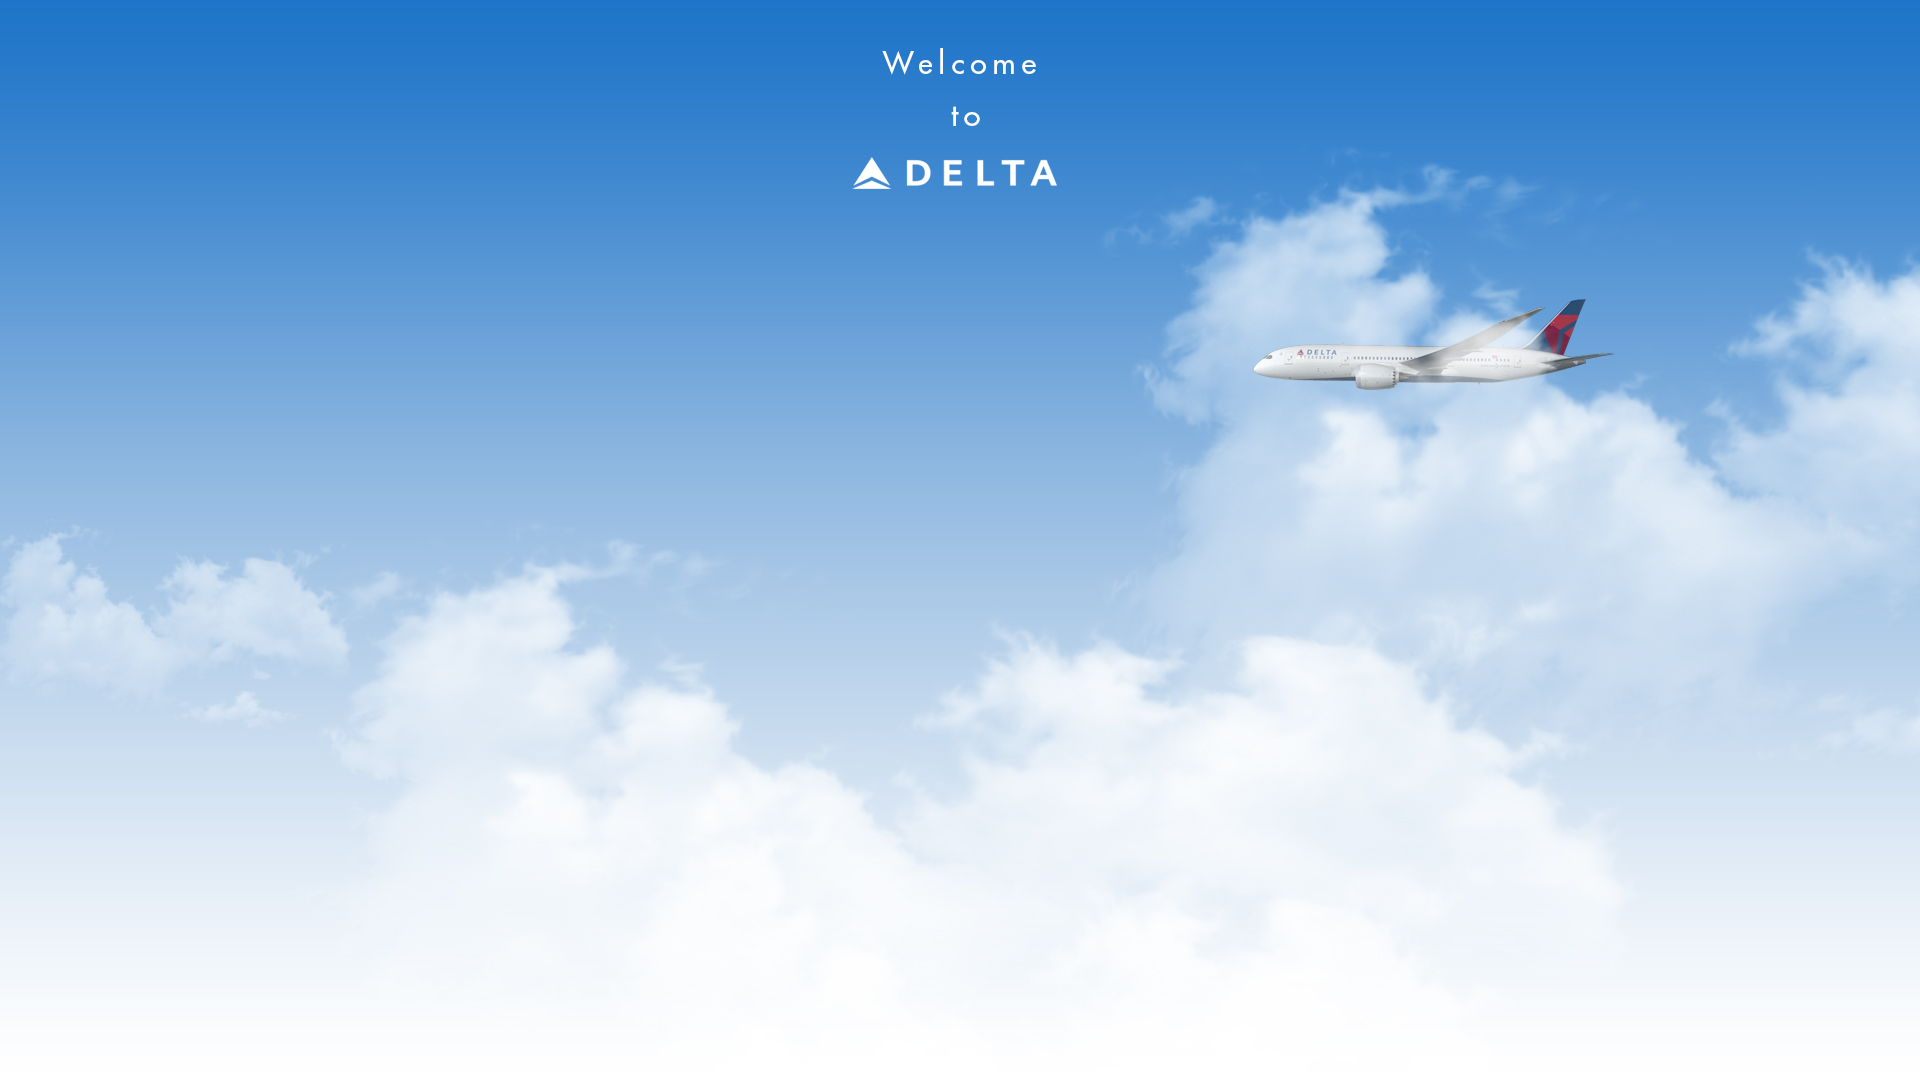
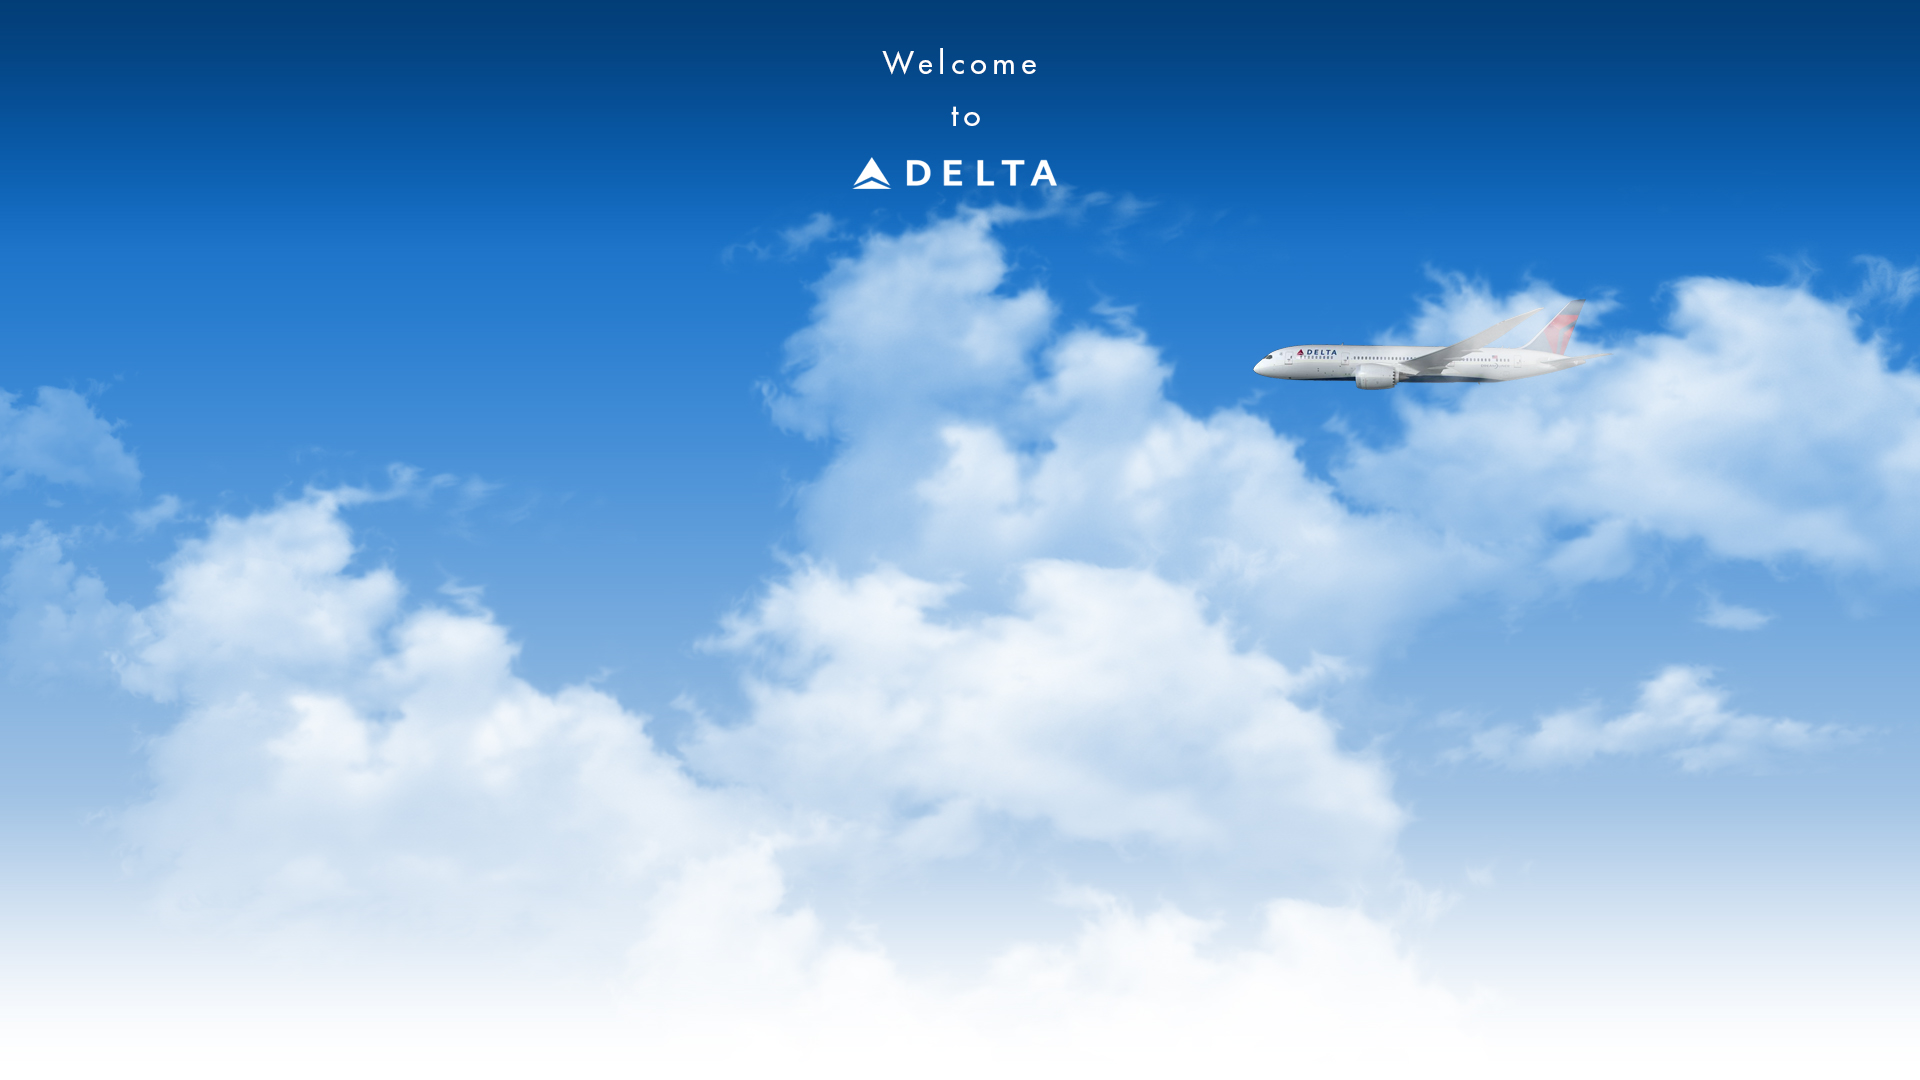
cloud marquee

diff --git a/login_style.css b/login_style.css
@@ -14,6 +14,15 @@ body {
 	margin-left: -30px;
 }
 
+#cloud_animation1 {
+    float: right;
+    clear: both;
+    position: relative;
+    z-index: -1;
+}
+
+
+
 #login_form {
 	background-color:rgba(255, 255, 255, 0.7);
 	margin: auto;
@@ -22,6 +31,7 @@ body {
 	border-radius: 5px;
 	padding: 20px;
 	font-family: sans-serif;
+    z-index: 1;
 }
 
 #custom_word {

diff --git a/login.php b/login.php
@@ -11,7 +11,7 @@
 <body>
 
 	<img id = "logo" src="images/delta.png">
-	
+
 	<div id = "login_form">
 
 		<form action="login.php"  method = "GET">
@@ -29,6 +29,10 @@
 			
 			<input type = "submit" name = "submit" value = "Log in">
 		</form>
+	</div>
+
+	<div id = "cloud_animation1">
+		<marquee direction="left" scrolldelay="300"><img id = "cloud" src="images/cloud.png">
 	</div>
 	
 </body>
